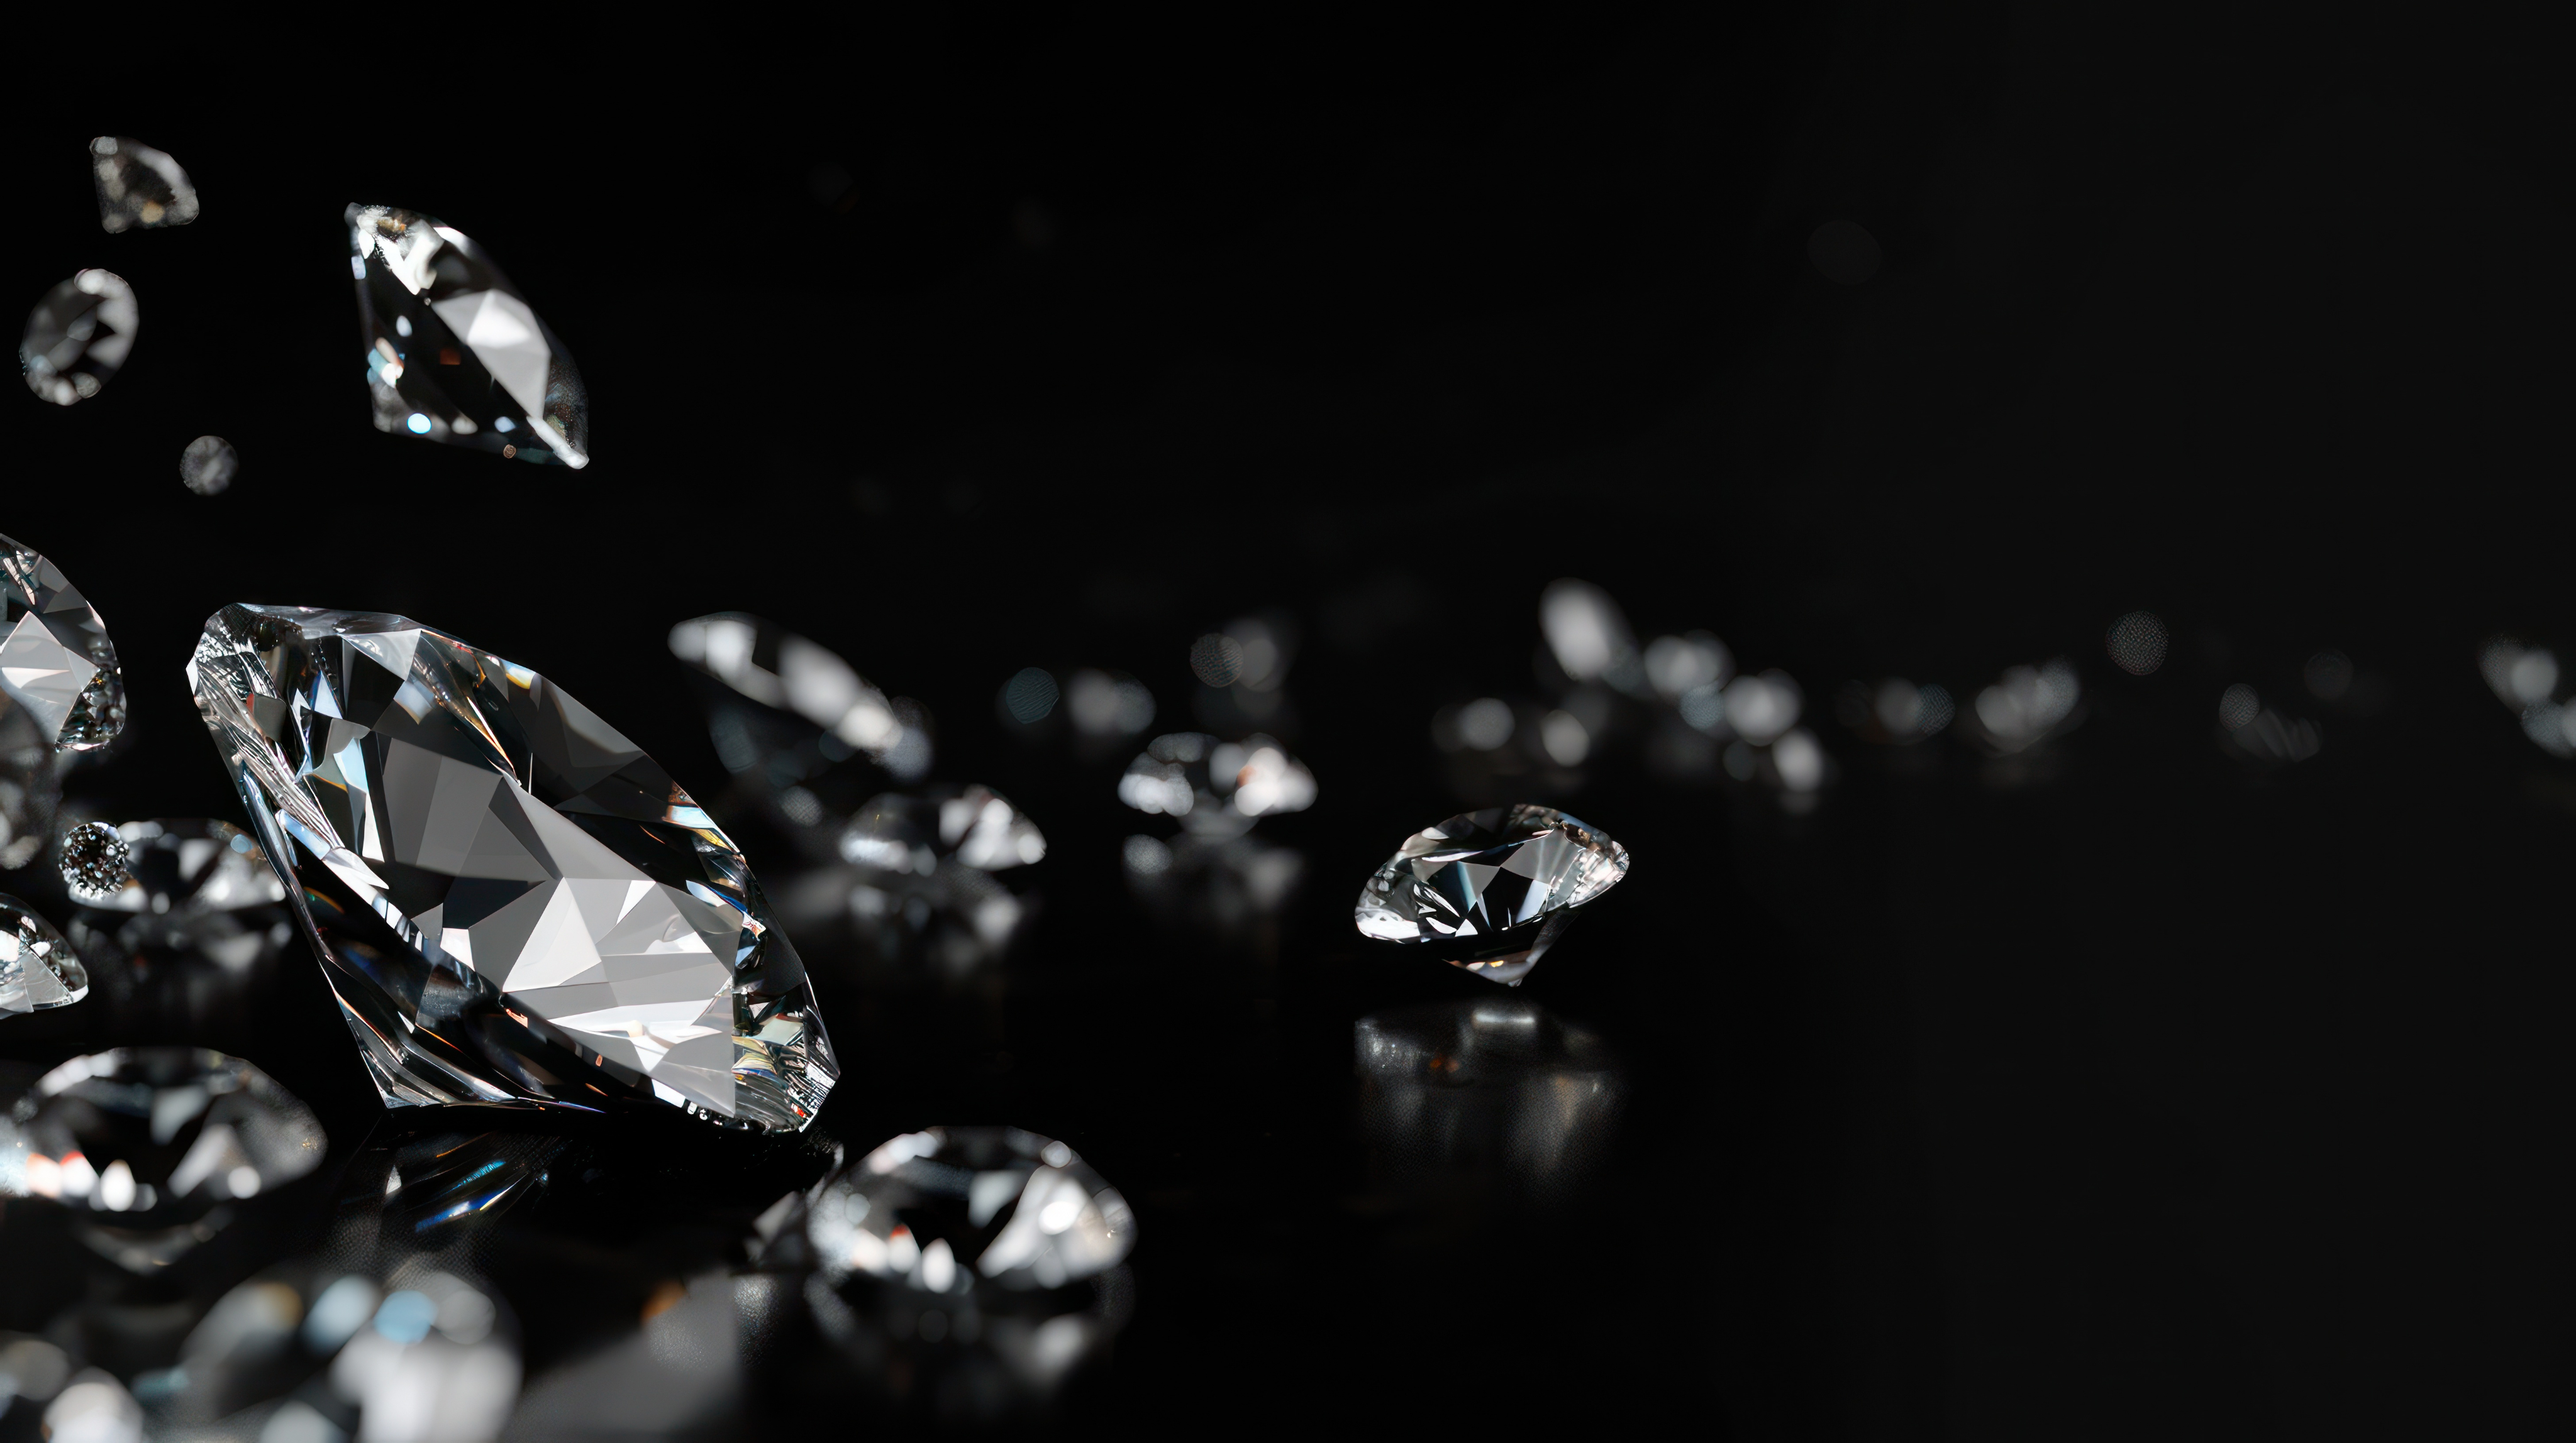
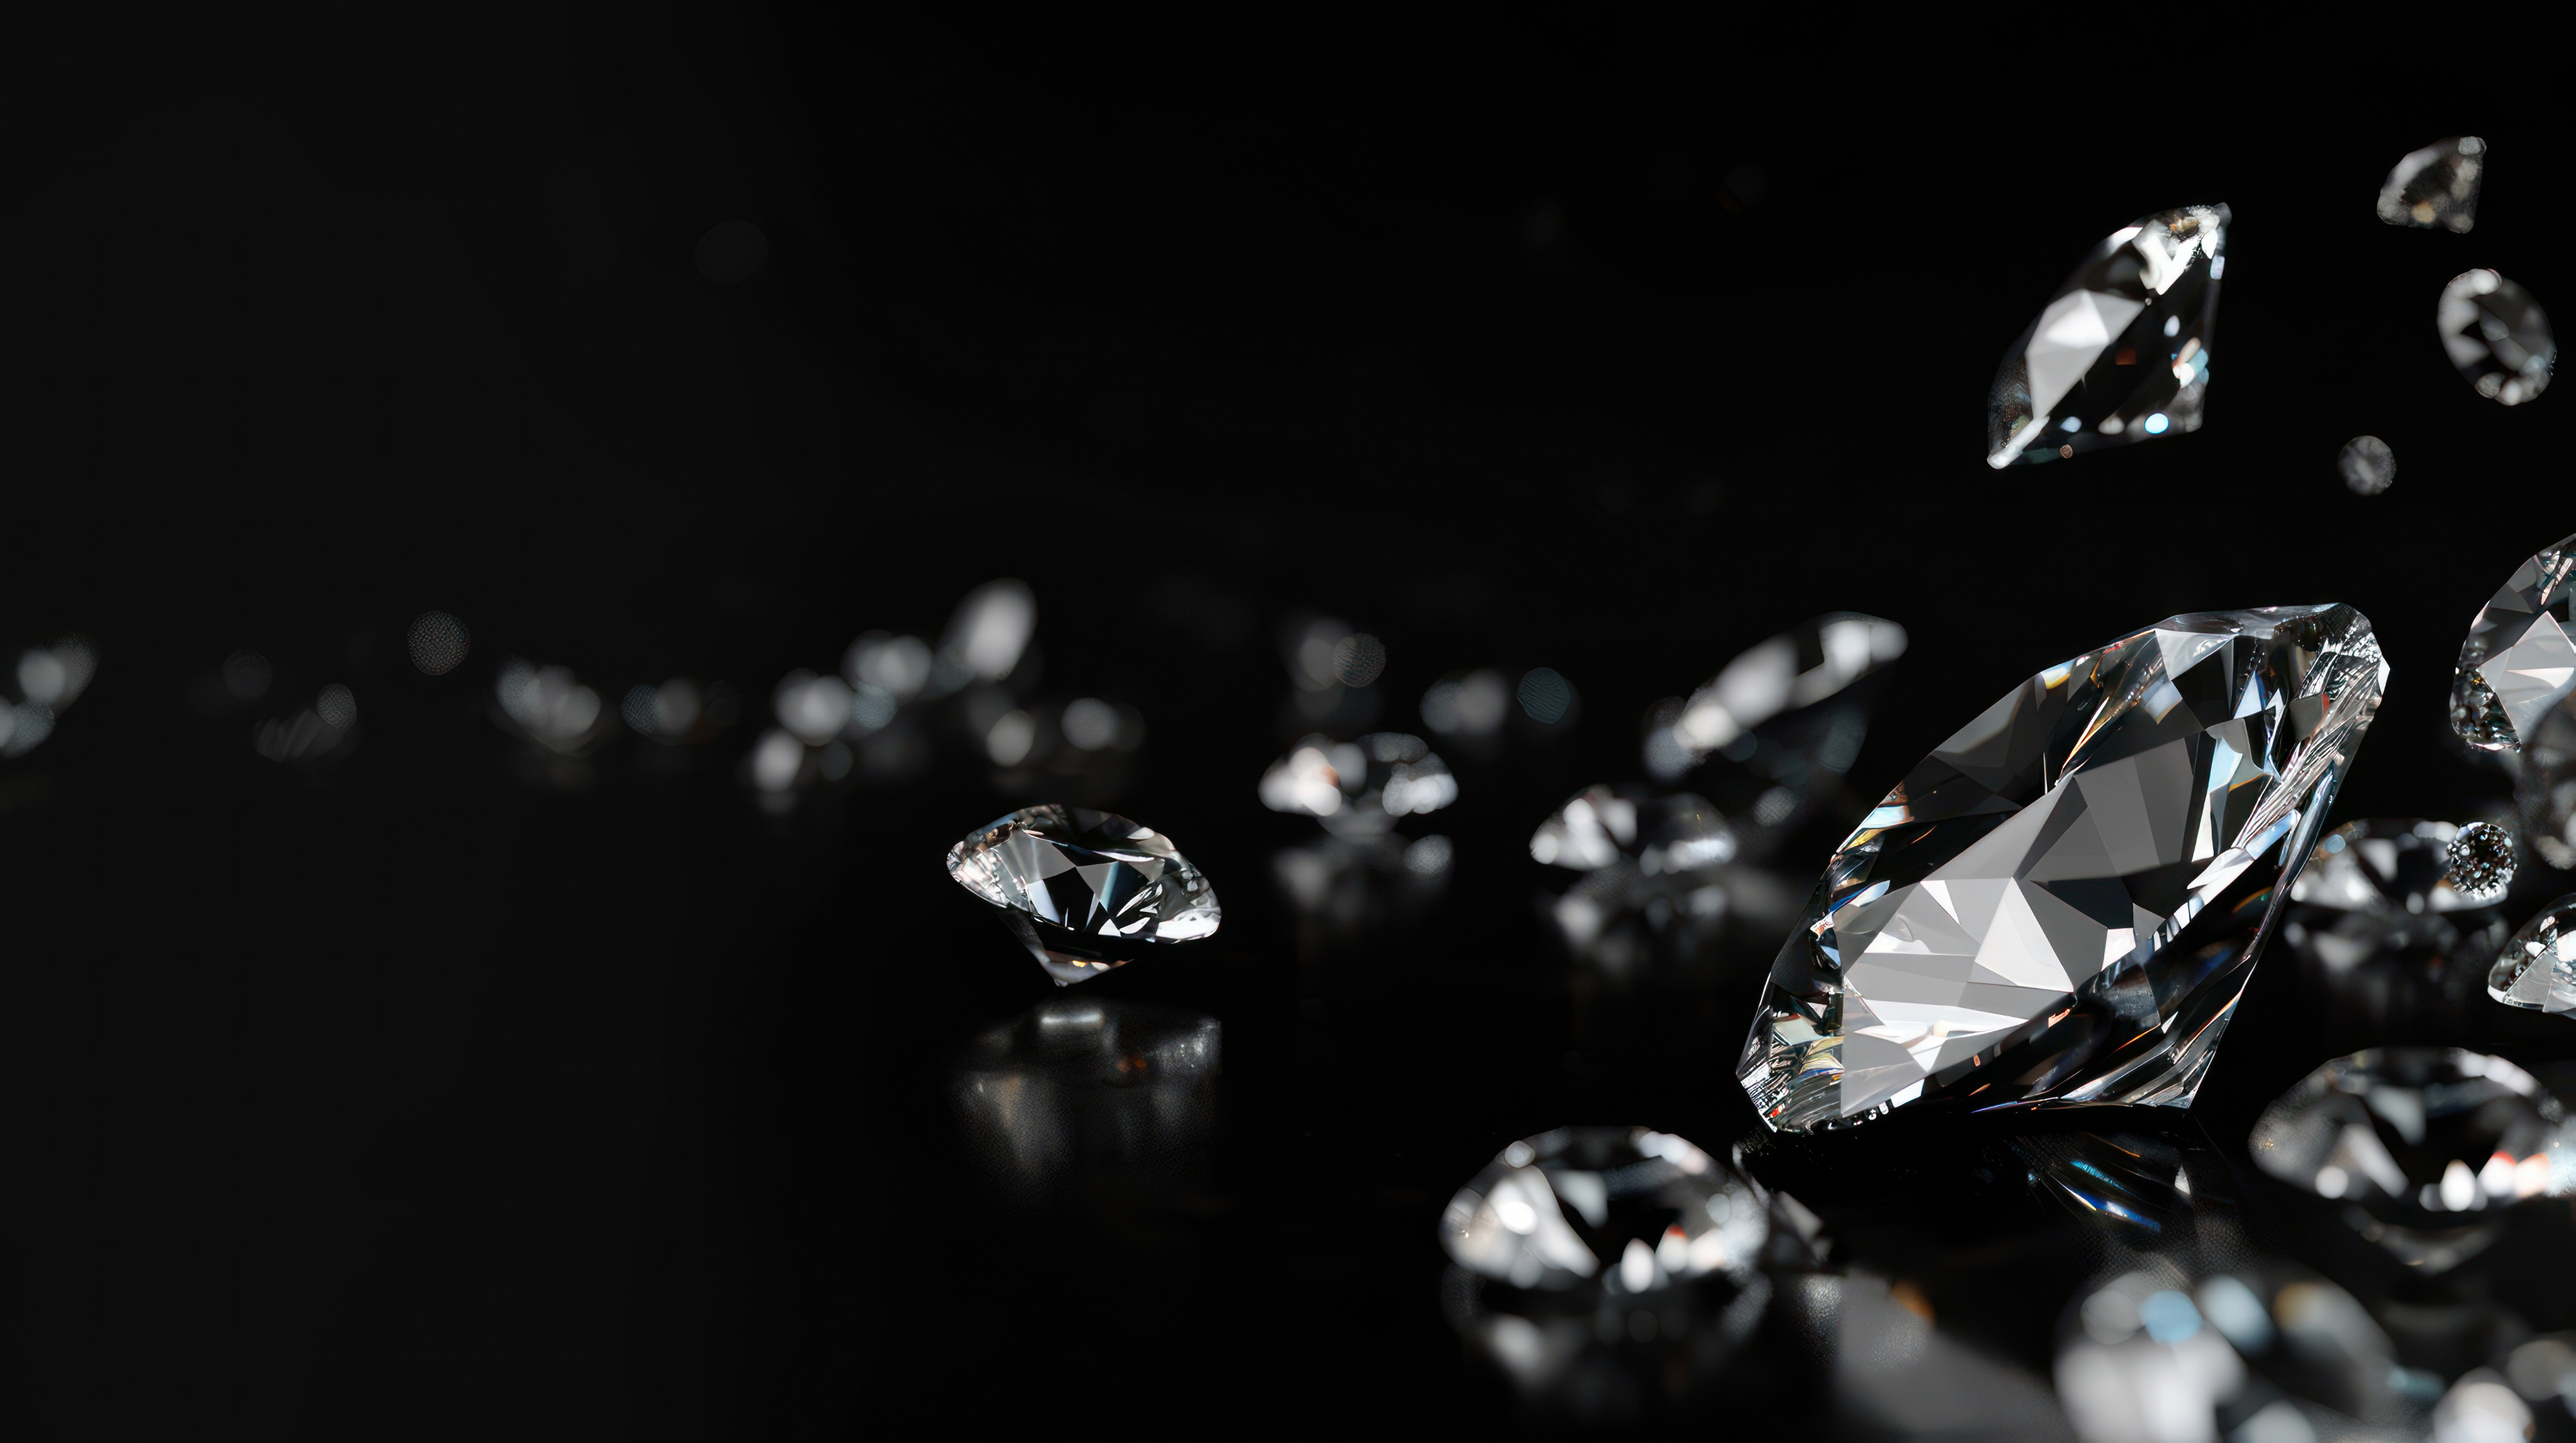
add initial login page and structure change

diff --git a/src/app/[locale]/(auth)/login/page.tsx b/src/app/[locale]/(auth)/login/page.tsx
@@ -1,0 +1,78 @@
+// src/app/[locale]/login/page.tsx
+import { getTranslations } from "next-intl/server";
+import Image from "next/image";
+
+export default async function LoginPage() {
+  const t = await getTranslations("Login");
+
+  return (
+    <main className="relative min-h-screen w-full overflow-hidden text-white">
+      <div className="pointer-events-none absolute inset-0 -z-20">
+        <Image
+          src="/images/login/black_diamonds_bg.jpg"
+          alt={t("backgroundAlt")}
+          fill
+          priority
+          className="object-cover"
+        />
+      </div>
+
+      <div className="relative z-10 mx-auto flex min-h-screen max-w-7xl items-center px-4 sm:px-6 lg:px-8 pt-28 pb-16 lg:pt-32 lg:pb-24">
+        <div className="flex w-full justify-center lg:justify-start">
+          <div className="w-full max-w-xl rounded-[32px] border border-white/15 bg-white/5 backdrop-blur-xs shadow-[0_24px_80px_rgba(0,0,0,0.60)] px-6 py-12 sm:px-10 sm:py-20">
+            <div className="mb-8 sm:mb-10 text-center">
+              <h1 className="text-2xl sm:text-3xl font-bold uppercase">
+                {t("title")}
+              </h1>
+              <p className="mt-3 text-xs sm:text-sm text-white text-balance uppercase tracking-[0.22em]">
+                {t("subtitle")}
+              </p>
+              <p className="mt-4 text-sm sm:text-base text-white text-balance">
+                {t("intro")}
+              </p>
+            </div>
+
+            <form className="space-y-4 sm:space-y-5" action="#" method="post">
+              <div>
+                <input
+                  type="email"
+                  name="email"
+                  placeholder={t("form.emailPlaceholder")}
+                  className="w-full rounded-full border border-white/20 bg-white/5 px-5 py-3 text-sm sm:text-base text-white placeholder:text-white outline-none transition focus:border-white/70 focus:bg-white/10"
+                />
+              </div>
+
+              <div>
+                <input
+                  type="password"
+                  name="password"
+                  placeholder={t("form.passwordPlaceholder")}
+                  className="w-full rounded-full border border-white/20 bg-white/5 px-5 py-3 text-sm sm:text-base text-white placeholder:text-white outline-none transition focus:border-white/70 focus:bg-white/10"
+                />
+              </div>
+
+              <div className="pt-2 flex justify-center">
+                <button
+                  type="button"
+                  className="inline-flex items-center justify-center rounded-full border border-white/70 bg-white/10 px-10 py-3 text-sm tracking-[0.25em] uppercase text-white hover:bg-white hover:text-slate-900 transition"
+                >
+                  {t("form.submit")}
+                </button>
+              </div>
+            </form>
+
+            <div className="mt-10 sm:mt-16 flex flex-col sm:flex-row items-center justify-center sm:justify-between gap-3 text-xs sm:text-sm text-white/90">
+              <p>{t("footer.newLabel")}</p>
+              <button
+                type="button"
+                className="text-xs sm:text-sm font-medium hover:text-white/100"
+              >
+                {t("footer.createAccount")}
+              </button>
+            </div>
+          </div>
+        </div>
+      </div>
+    </main>
+  );
+}

diff --git a/src/app/[locale]/layout.tsx b/src/app/[locale]/layout.tsx
@@ -6,9 +6,6 @@ import type { Metadata } from "next";
 import { Inter, Geist_Mono } from "next/font/google";
 import "../globals.css";
 
-import Navbar from "@/components/layout/Navbar";
-import Footer from "@/components/layout/Footer";
-
 const inter = Inter({
   subsets: ["latin"],
   variable: "--font-inter",
@@ -30,20 +27,15 @@ type Props = {
 };
 
 export default async function LocaleLayout({ children, params }: Props) {
-  // Ensure that the incoming `locale` is valid
   const { locale } = await params;
   if (!hasLocale(routing.locales, locale)) {
     notFound();
   }
 
   return (
-    <html lang="en">
+    <html lang={locale}>
       <body className={`${inter.variable} ${geistMono.variable} font-sans`}>
-        <NextIntlClientProvider>
-          <Navbar />
-          {children}
-          <Footer />
-        </NextIntlClientProvider>
+        <NextIntlClientProvider>{children}</NextIntlClientProvider>
       </body>
     </html>
   );

diff --git a/src/app/[locale]/(site)/layout.tsx b/src/app/[locale]/(site)/layout.tsx
@@ -1,0 +1,16 @@
+import Navbar from "@/components/layout/Navbar";
+import Footer from "@/components/layout/Footer";
+
+type Props = {
+  children: React.ReactNode;
+};
+
+export default function SiteLayout({ children }: Props) {
+  return (
+    <>
+      <Navbar />
+      {children}
+      <Footer />
+    </>
+  );
+}

diff --git a/src/app/[locale]/(auth)/layout.tsx b/src/app/[locale]/(auth)/layout.tsx
@@ -1,0 +1,14 @@
+import Navbar from "@/components/layout/Navbar";
+
+type Props = {
+  children: React.ReactNode;
+};
+
+export default function AuthLayout({ children }: Props) {
+  return (
+    <>
+      <Navbar />
+      {children}
+    </>
+  );
+}

diff --git a/src/app/[locale]/(create)/layout.tsx b/src/app/[locale]/(create)/layout.tsx
@@ -1,0 +1,14 @@
+import Navbar from "@/components/layout/Navbar";
+
+type Props = {
+  children: React.ReactNode;
+};
+
+export default function AuthLayout({ children }: Props) {
+  return (
+    <>
+      <Navbar />
+      {children}
+    </>
+  );
+}

diff --git a/src/app/[locale]/(create)/studio/page.tsx b/src/app/[locale]/(create)/studio/page.tsx
@@ -1,0 +1,3 @@
+export default function StudioPage() {
+  return <>NULL</>;
+}
